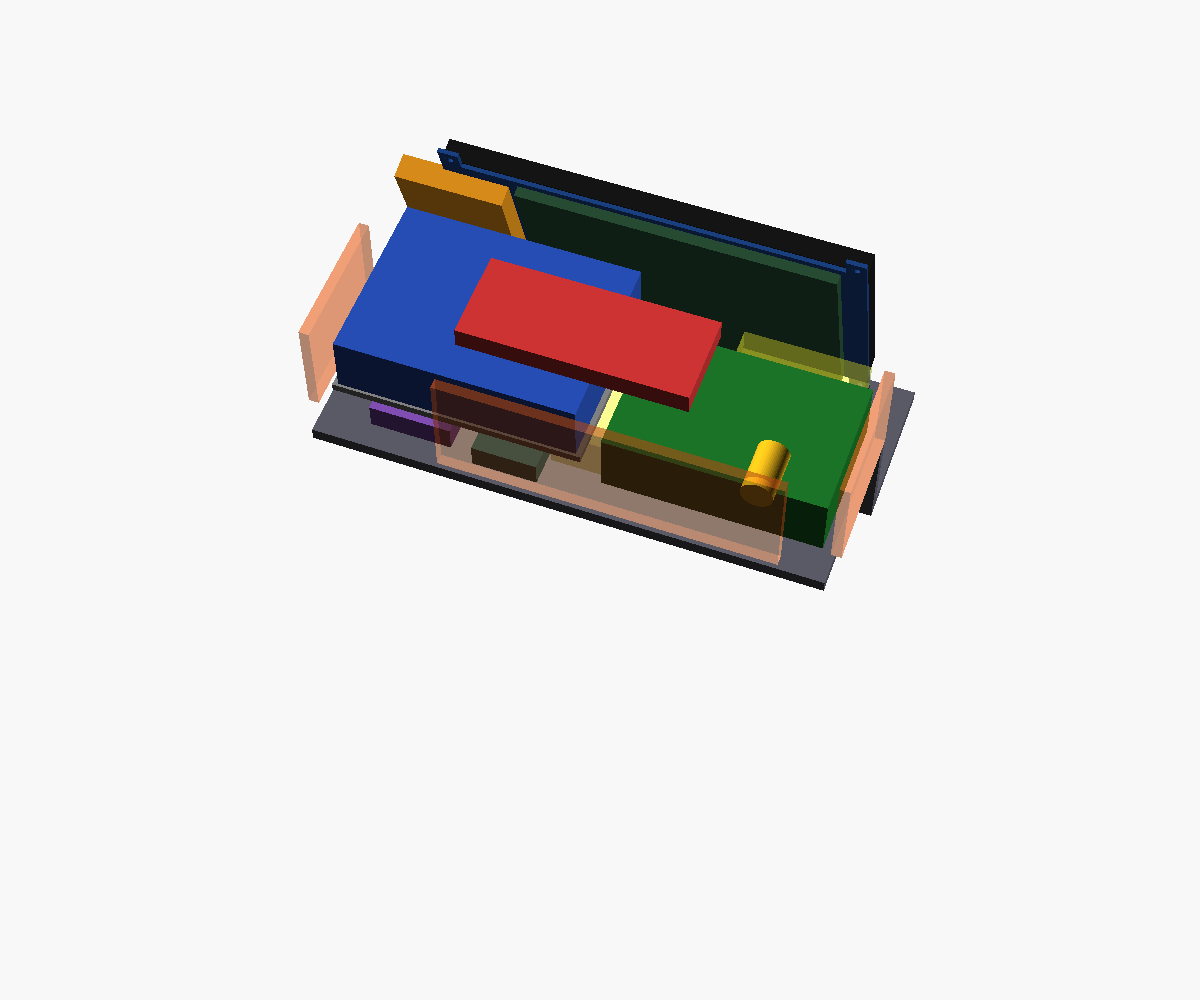
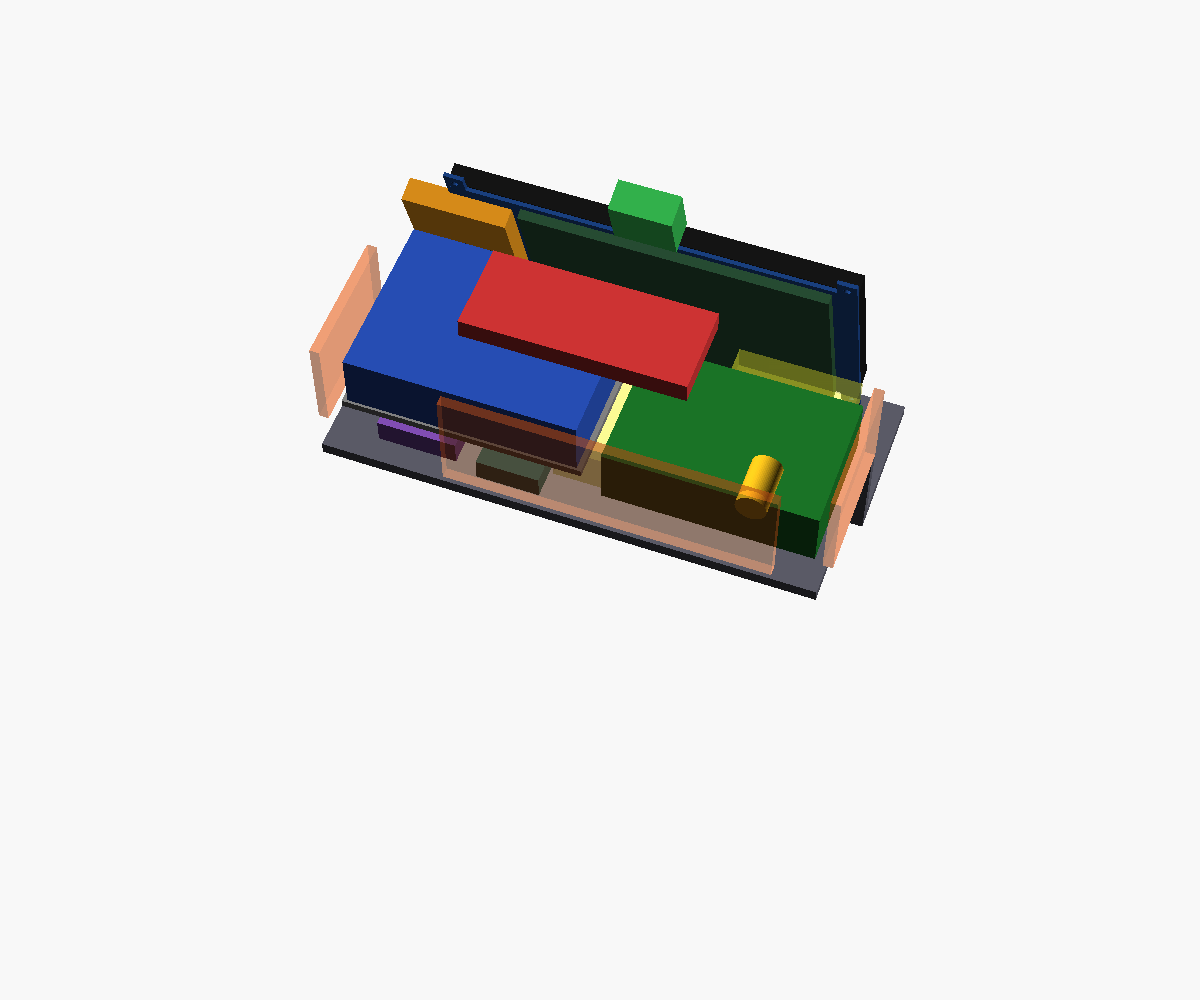
Cámara sobre la pantalla (Camera Module 3) y carcasa de 266 mm
La franja sobre el cristal medía 12 mm y la placa 24 mm: la carcasa
crece 16 mm. La cámara acústica no cambia (≈3,3 L).

Claude-Session: https://claude.ai/code/session_011wCrvR5XLZziNZnBQxWkpT

Changed region(s): [[0.2467, 0.124, 0.7708, 0.62]]

diff --git a/tools/comprobar_volumetrico.py b/tools/comprobar_volumetrico.py
@@ -30,9 +30,9 @@ BRACING_L = 0.10
 
 # Componentes sólidos que no deben tocarse entre sí
 COMPONENTS = ["screen", "screen_conn", "pi_port_clear", "speaker", "pr", "pi5",
-              "kabd", "buck", "dac", "bracket", "dc_jack", "led_bar", "mics"]
+              "kabd", "buck", "dac", "bracket", "dc_jack", "led_bar", "mics", "camera"]
 # Componentes que atraviesan la pared o la cámara a propósito
-MAY_CROSS_SHELL = {"speaker", "pr", "dc_jack"}
+MAY_CROSS_SHELL = {"speaker", "pr", "dc_jack", "camera"}
 MAY_ENTER_CHAMBER = {"speaker", "pr"}
 # Pares que se solapan a propósito
 ALLOWED_PAIRS = set()

diff --git a/docs/10_electronica.md b/docs/10_electronica.md
@@ -11,6 +11,7 @@ Fuente 24 V externa (GST60A24, 60 W)
           │      ├─ I²S ──► GY-PCM5102 (DAC) ──► jack 3,5 mm ──► AUX del KABD-250
           │      ├─ HDMI + USB ──► pantalla Waveshare 7"
           │      ├─ USB ──► ReSpeaker Lite (micrófonos)
+          │      ├─ CSI ──► Camera Module 3 (sobre la pantalla)
           │      └─ SPI (GPIO10) ──► 74AHCT125 ──► barra WS2812B
           └─► alimentación de la barra WS2812B
 ```
@@ -22,6 +23,7 @@ Fuente 24 V externa (GST60A24, 60 W)
 | Micrófonos | **ReSpeaker Lite USB** (XMOS XU316, 2 micrófonos) | Cancelación de eco, supresión de ruido y ganancia automática por hardware, por USB. El XVF3800 (4 micrófonos) es mejor, pero su placa de 99 mm no cabe bajo el techo con la pantalla inclinada delante | 86 × 35 mm |
 | Conversor 24 → 5 V | **Pololu D36V50F5** | 5 V, 5,5 A, entrada de 5,5 a 50 V, 80–95 % de rendimiento, muy compacto | 25,4 × 25,4 × 9,5 mm |
 | Fuente | **Mean Well GST60A24-P1J** | 24 V, 2,5 A, 60 W, de sobremesa, clavija 5,5 × 2,1 mm. Da un 60 % de margen sobre el pico calculado | externa |
+| Cámara | **Raspberry Pi Camera Module 3** (normal o gran angular) | Oficial, autofoco, 12 MP y HDR; se conecta al puerto CSI de la Pi 5 con el cable específico para la Pi 5 (22 → 15 pines) | 25 × 24 × 11,5 mm (12,4 la gran angular) |
 | LEDs | Barra WS2812B (8–12) + **SN74AHCT125** | La Pi da 3,3 V y los WS2812B esperan 5 V en datos: el 74AHCT125 adapta el nivel | — |
 
 ## Presupuesto de consumo (estimación)
@@ -74,6 +76,28 @@ El KABD-250 recomienda 4 A porque está pensado para 2 × 50 W. Aquí solo se us
 - **Filtro paso alto de 40 Hz (D022) y ecualización:** en la Pi, con CamillaDSP o un filtro de PipeWire. Así no hace falta el programador DSPB-ICP1 para el DSP del KABD-250, que se queda con sus ajustes por defecto y los potenciómetros.
 - **Cancelación de eco:** el ReSpeaker Lite cancela el eco por hardware si recibe como referencia el mismo audio que suena. La música sale por el DAC, así que PipeWire envía una copia al ReSpeaker por USB; su salida queda sin conectar. Si esa vía no funciona bien, la alternativa es la cancelación de eco por software de PipeWire (`module-echo-cancel`, WebRTC), que funciona con cualquier micrófono.
 
+## Cámara (D025)
+**Ubicación:** centrada en la franja del frontal inclinado, justo encima del cristal de la pantalla.
+
+Opciones descartadas:
+| Ubicación | Por qué no |
+|---|---|
+| Techo | Mira hacia arriba y ya lo ocupan los micrófonos |
+| Franja de LEDs, entre pantalla y altavoz | Solo 11 mm de alto, demasiado baja (vería al usuario desde abajo) y pegada al altavoz, que la haría vibrar |
+| Laterales | Descentrada: la cara del usuario saldría de perfil y el seguimiento del avatar quedaría torcido |
+| Módulo espía diminuto en los 12 mm libres sobre la pantalla | Cabría sin cambiar la carcasa, pero con un sensor antiguo (OV5647, sin autofoco) |
+
+**Por qué encima de la pantalla:**
+- mira de frente al usuario cuando mira la pantalla, como una webcam de portátil;
+- queda a la mayor altura del aparato;
+- comparte la inclinación de 18° de la pantalla, así que apunta ligeramente hacia arriba, hacia la cara de quien está sentado a la mesa;
+- está lo más lejos posible del altavoz.
+
+**Coste:** la franja libre sobre el cristal era de 12 mm y la placa mide 24 mm. La carcasa crece **16 mm de alto (250 → 266 mm)**. La cámara acústica no cambia (≈3,3 L).
+
+**Montaje:** la placa se atornilla por detrás del frontal (taladros M2 de la cámara) con el objetivo en un agujero de 8 mm. El cable plano baja por detrás de la pantalla hasta el conector CSI de la Pi.
+
+**Privacidad:** conviene una tapa deslizante impresa sobre el objetivo, y que el software encienda un LED de la barra mientras la cámara esté activa.
+
 ## Pendiente
 - Confirmar la separación real de los micrófonos del ReSpeaker Lite para situar los agujeros del techo.
-- Cámara opcional: sin sitio en el techo; posición por decidir.

diff --git a/docs/DECISIONS.md b/docs/DECISIONS.md
@@ -9,7 +9,7 @@
 | D006 | DMA105-PR con ≈10 g de masa añadida (sintonía ≈43 Hz, validado por simulación) | Propuesta |
 | D007 | KABD-250 | Propuesta |
 | D008 | Cámara acústica independiente y estanca | Cerrada |
-| D009 | Envolvente 205×250×145 mm (validada en v0.3: da ≈3,3 L netos) | Provisional |
+| D009 | Envolvente 205×266×145 mm (250 hasta v0.3.2; +16 mm por la cámara). Cámara acústica ≈3,3 L netos | Provisional |
 | D010 | OpenSCAD | Cerrada |
 | D011 | DAC GY-PCM5102 (PCM5102A) por I²S → AUX del KABD-250 | Propuesta |
 | D012 | Micrófonos ReSpeaker Lite USB (2 micrófonos, AEC por hardware) bajo el techo | Propuesta |
@@ -25,3 +25,4 @@
 | D022 | Filtro paso alto a ≈40 Hz en la Pi (CamillaDSP/PipeWire) para proteger el altavoz por debajo de la sintonía | Propuesta |
 | D023 | LEDs WS2812B por SPI (GPIO10) con adaptador de nivel SN74AHCT125 | Propuesta |
 | D024 | Cancelación de eco por hardware en el ReSpeaker Lite; alternativa por software en PipeWire | Propuesta |
+| D025 | Cámara Raspberry Pi Camera Module 3 centrada sobre la pantalla, en el frontal inclinado (mira al usuario con la inclinación de la pantalla). La carcasa crece 16 mm de alto para alojarla | Propuesta |

diff --git a/docs/08_distribucion.md b/docs/08_distribucion.md
@@ -1,5 +1,5 @@
 # 08 — Distribución (v0.3)
-Envolvente de trabajo: **205 × 250 × 145 mm** (ancho × alto × fondo).
+Envolvente de trabajo: **205 × 266 × 145 mm** (ancho × alto × fondo). Hasta v0.3.2 medía 250 mm de alto; los 16 mm extra son para la cámara (D025).
 
 ![Vista frontal v0.3](img/v0_3_iso_frontal.png)
 
@@ -13,6 +13,7 @@ Envolvente de trabajo: **205 × 250 × 145 mm** (ancho × alto × fondo).
 |---|---|
 | Frontal inferior | DMA105-4, rejilla frontal |
 | Franja entre altavoz y pantalla | Barra LED WS2812B (z ≈ 116–122 mm) |
+| Franja sobre la pantalla | Cámara Raspberry Pi Camera Module 3, centrada y con la misma inclinación que la pantalla (D025) |
 | Frontal superior inclinado | Waveshare 7" en horizontal. Conectores en el canto derecho, mitad superior, con 15 mm libres para clavijas acodadas |
 | Detrás de la pantalla | Los conectores quedan a la altura de la bahía: los cables no pasan por la zona de la cámara |
 | Interior inferior + superior-trasero | Cámara acústica en L (D016) |

diff --git a/docs/BOM.md b/docs/BOM.md
@@ -8,7 +8,7 @@
 | Amplificación | Dayton KABD-250 | 1 | Propuesto | Al cerrar diseño |
 | Audio | GY-PCM5102 (DAC I²S PCM5102A) | 1 | Propuesto | Al cerrar diseño |
 | Micrófonos | ReSpeaker Lite USB (2 micrófonos, XU316) | 1 | Propuesto | Al cerrar diseño |
-| Cámara | Compatible Pi | 1 | Opcional | Opcional |
+| Cámara | Raspberry Pi Camera Module 3 (normal o gran angular) + cable Pi 5 22→15 pines | 1 | Propuesto | Al cerrar diseño |
 | LEDs | WS2812B | 8–12 | Propuesto | Al cerrar diseño |
 | Alimentación | Mean Well GST60A24-P1J (24 V, 60 W, externa) | 1 | Propuesto | Al cerrar diseño |
 | Alimentación | Conector DC de panel 24 V | 1 | En estudio | Al cerrar diseño |

diff --git a/docs/09_carcasa.md b/docs/09_carcasa.md
@@ -11,5 +11,5 @@ Orden de desarrollo:
 9. STL de producción.
 
 ## Notas para la división en piezas (impresión)
-- La altura de 250 mm y el frontal inclinado hacen pensar en varias piezas: cámara acústica (pieza estanca propia), bahía superior con tapa desmontable y marco frontal de la pantalla.
+- La altura de 266 mm y el frontal inclinado hacen pensar en varias piezas: cámara acústica (pieza estanca propia), bahía superior con tapa desmontable y marco frontal de la pantalla.
 - La tapa de la bahía da acceso de servicio a la Pi y al resto de la electrónica sin abrir la cámara.

diff --git a/CHANGELOG.md b/CHANGELOG.md
@@ -1,4 +1,8 @@
 # Changelog
+## v0.3.3
+- Cámara Raspberry Pi Camera Module 3 centrada sobre la pantalla, en el frontal inclinado (D025).
+- Carcasa 16 mm más alta (250 → 266 mm) para alojarla; la cámara acústica no cambia.
+
 ## v0.3.2
 - Electrónica propuesta: DAC GY-PCM5102, ReSpeaker Lite USB, Pololu D36V50F5 y Mean Well GST60A24 (D011–D014), con presupuesto de consumo y cableado en `docs/10_electronica.md`.
 - LEDs por SPI con adaptador de nivel (D023); cancelación de eco (D024); filtro paso alto en la Pi (D022).

diff --git a/README.md b/README.md
@@ -14,7 +14,7 @@ Asistente inteligente de sobremesa con Raspberry Pi 5, pantalla táctil de 7", a
 - DAC GY-PCM5102 (PCM5102A, I²S) — propuesto
 - ReSpeaker Lite USB (2 micrófonos con AEC) — propuesto
 - WS2812B, 8–12 LEDs — propuesto
-- Cámara — opcional
+- Raspberry Pi Camera Module 3, sobre la pantalla — propuesta
 - Fuente Mean Well GST60A24-P1J (24 V, 60 W) — propuesta
 - Conversor Pololu D36V50F5 (24→5 V, 5,5 A) — propuesto
 
